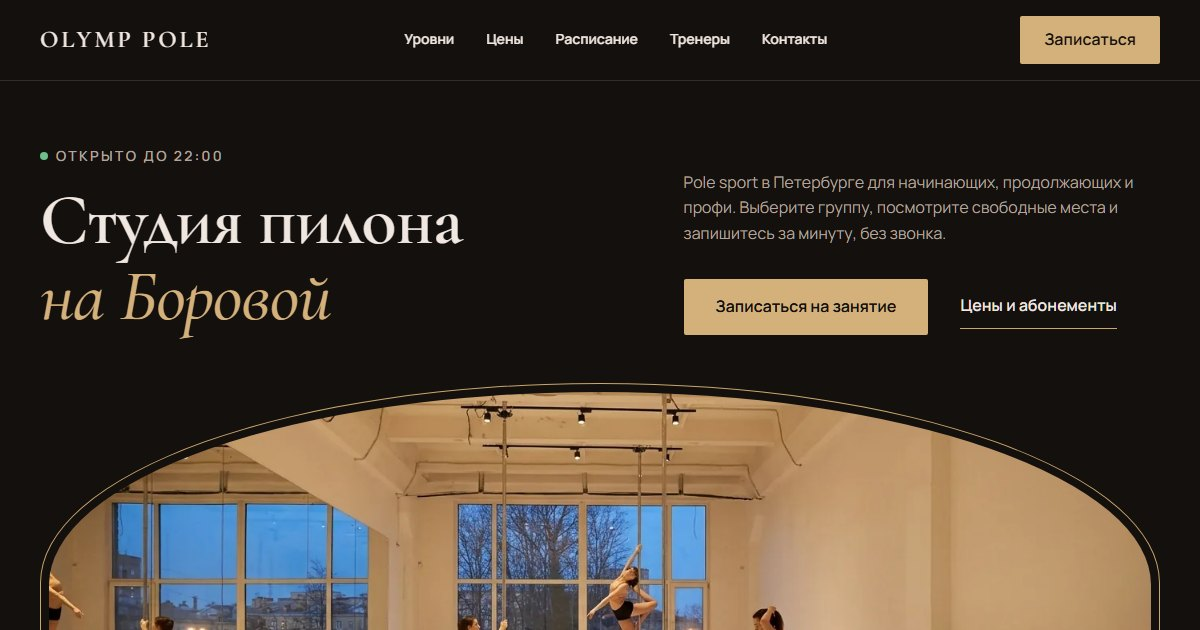
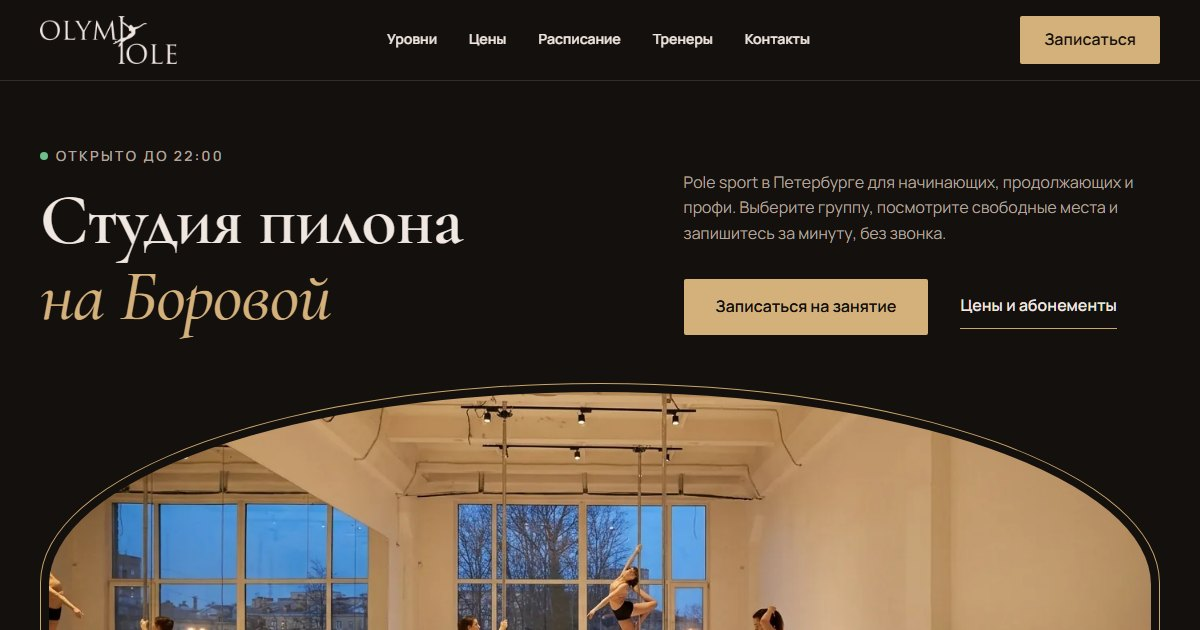
Правки Софии 27.11, вторая партия: логотип в шапке, аренда зала 1 000 ₽/час с заявкой, разовое 1,5 часа в ценах и форме, срок абонементов 30 дней и заморозка у абонемента на 8, «Очень важно» по видам занятий, пометка «только разово» в расписании, подсказка при пустом дне в фильтре уровня

Changed region(s): [[0.3083, 0.0302, 0.6783, 0.0905], [0.0308, 0.0302, 0.185, 0.1206]]

diff --git a/index.html b/index.html
@@ -36,7 +36,7 @@
 <body>
 
 <header class="shapka"><div class="wrap">
-  <a class="imya" href="#top">Olymp Pole</a>
+  <a class="imya" href="#top"><img src="img/logo.png" width="342" height="120" alt="Olymp Pole"></a>
   <nav aria-label="Разделы"><a href="#urovni">Уровни</a><a href="#ceny">Цены</a><a href="#raspisanie">Расписание</a><a href="#trenery">Тренеры</a><a href="#kontakty">Контакты</a></nav>
   <a class="btn btn--mal" href="#raspisanie">Записаться</a>
 </div></header>
@@ -89,23 +89,41 @@
 
 <section class="ceny" id="ceny"><div class="wrap">
   <div class="zag rv"><p class="kik">Цены</p><h2>Разово <em>или абонементом</em></h2>
-    <p class="pod">Выберите вариант, потом занятие в расписании. Оплата наличными или переводом, разовые и персональные занятия заранее, за 24 часа до начала.</p></div>
+    <p class="pod">Выберите вариант, потом занятие в расписании. Оплата наличными или переводом. Разовые и персональные занятия и аренду оплачивайте заранее, за 24 часа до начала.</p></div>
   <div class="tarify rv">
     <div class="tarif" data-t="razovoe"><h3>Разовое занятие</h3><p class="summa">1&nbsp;200&nbsp;₽</p><p>Групповое занятие, 1 час</p>
       <button type="button" class="tarif-kn" data-tarif="razovoe">Выбрать занятие <svg viewBox="0 0 24 24" fill="none" stroke="currentColor" stroke-width="2" stroke-linecap="round" stroke-linejoin="round" aria-hidden="true"><path d="M5 12h14"/><path d="m12 5 7 7-7 7"/></svg></button></div>
-    <div class="tarif" data-t="kupit4"><h3>Абонемент на 4 занятия</h3><p class="summa">4&nbsp;200&nbsp;₽</p><p>1&nbsp;050&nbsp;₽ за занятие</p>
+    <div class="tarif" data-t="kupit4"><h3>Абонемент на 4 занятия</h3><p class="summa">4&nbsp;200&nbsp;₽</p><p>1&nbsp;050&nbsp;₽ за занятие</p><p>Действует 30 дней, без заморозки</p>
       <button type="button" class="tarif-kn" data-tarif="kupit4">Выбрать абонемент <svg viewBox="0 0 24 24" fill="none" stroke="currentColor" stroke-width="2" stroke-linecap="round" stroke-linejoin="round" aria-hidden="true"><path d="M5 12h14"/><path d="m12 5 7 7-7 7"/></svg></button></div>
-    <div class="tarif glav" data-t="kupit8"><span class="metka">Выгоднее</span><h3>Абонемент на 8 занятий</h3><p class="summa">8&nbsp;000&nbsp;₽</p><p>1&nbsp;000&nbsp;₽ за занятие</p>
+    <div class="tarif glav" data-t="kupit8"><span class="metka">Выгоднее</span><h3>Абонемент на 8 занятий</h3><p class="summa">8&nbsp;000&nbsp;₽</p><p>1&nbsp;000&nbsp;₽ за занятие</p><p>Действует 30 дней, плюс заморозка на 1 неделю</p>
       <button type="button" class="tarif-kn" data-tarif="kupit8">Выбрать абонемент <svg viewBox="0 0 24 24" fill="none" stroke="currentColor" stroke-width="2" stroke-linecap="round" stroke-linejoin="round" aria-hidden="true"><path d="M5 12h14"/><path d="m12 5 7 7-7 7"/></svg></button></div>
+    <div class="tarif" data-t="razovoe15"><h3>Разовое занятие 1,5 часа</h3><p class="summa">1&nbsp;500&nbsp;₽</p><p>СФП + Pole sport, групповое занятие 1,5 часа. Оплачивается только разово</p>
+      <button type="button" class="tarif-kn" data-tarif="razovoe15">Выбрать занятие <svg viewBox="0 0 24 24" fill="none" stroke="currentColor" stroke-width="2" stroke-linecap="round" stroke-linejoin="round" aria-hidden="true"><path d="M5 12h14"/><path d="m12 5 7 7-7 7"/></svg></button></div>
     <div class="tarif tarif--perso"><h3>Персональное занятие</h3><p class="summa">от 3&nbsp;000&nbsp;₽</p><p>Один на один с тренером, время подбираем под вас</p>
       <button type="button" class="tarif-kn" data-okno="perso">Оставить заявку <svg viewBox="0 0 24 24" fill="none" stroke="currentColor" stroke-width="2" stroke-linecap="round" stroke-linejoin="round" aria-hidden="true"><path d="M5 12h14"/><path d="m12 5 7 7-7 7"/></svg></button></div>
+    <div class="tarif tarif--perso"><h3>Аренда зала</h3><p class="summa">1&nbsp;000&nbsp;₽ <small>за час</small></p><p>Три пилона pole 4 you (42 и 45 мм, высота 4 м), татами и креш-мат</p>
+      <button type="button" class="tarif-kn" data-okno="arenda">Оставить заявку <svg viewBox="0 0 24 24" fill="none" stroke="currentColor" stroke-width="2" stroke-linecap="round" stroke-linejoin="round" aria-hidden="true"><path d="M5 12h14"/><path d="m12 5 7 7-7 7"/></svg></button></div>
   </div>
   <div class="ceny-niz">
     <ul class="ceny-prim">
-      <li><b>Занятия 1,5 часа</b> (СФП + Pole sport) оплачиваются отдельно как разовое занятие: <b>1&nbsp;500&nbsp;₽</b>.</li>
-      <li>Абонемент действует <span class="zaglushka" id="srok">[срок уточняется]</span>, посещения отмечаются в электронном виде.</li>
+      <li><b>Занятия 1,5 часа</b> (СФП + Pole sport) оплачиваются только разово, <b>1&nbsp;500&nbsp;₽</b>, абонемент на них не действует.</li>
+      <li>Абонемент действует <b>30 дней</b>, это его максимальный срок. К абонементу на 8 занятий можно добавить заморозку на одну неделю, у абонемента на 4 занятия заморозки нет. Посещения отмечаются в электронном виде.</li>
     </ul>
     <button type="button" class="moj-abon" data-okno="abon"><svg viewBox="0 0 24 24" fill="none" stroke="currentColor" stroke-width="2" stroke-linecap="round" stroke-linejoin="round" aria-hidden="true"><path d="M2 9a3 3 0 0 1 0 6v2a2 2 0 0 0 2 2h16a2 2 0 0 0 2-2v-2a3 3 0 0 1 0-6V7a2 2 0 0 0-2-2H4a2 2 0 0 0-2 2Z"/><path d="M13 5v2"/><path d="M13 17v2"/><path d="M13 11v2"/></svg><span><b>Уже есть абонемент?</b> Посмотрите, сколько занятий осталось</span></button>
+  </div>
+  <div class="vazhno vazhno--ceny rv" role="note">
+    <p class="vazhno-zag"><svg viewBox="0 0 24 24" fill="none" stroke="currentColor" stroke-width="2" stroke-linecap="round" stroke-linejoin="round" aria-hidden="true"><circle cx="12" cy="12" r="10"/><path d="M12 8v4"/><path d="M12 16h.01"/></svg>Очень важно</p>
+    <div class="vazhno-setka">
+      <div><p class="vazhno-pod">Групповые занятия</p><ul>
+        <li>Выписаться с занятия нужно минимум за 6 часов до его начала. Если вы не отменили запись как минимум за 6 часов до начала, оплата сгорает.</li>
+        <li>Разовые занятия оплачиваются заранее, за 24 часа до начала.</li></ul></div>
+      <div><p class="vazhno-pod">Персональные занятия</p><ul>
+        <li>Оплата персонального занятия минимум за 24 часа до начала.</li>
+        <li>Отмена или перенос персонального занятия минимум за 24 часа до начала, иначе оплата сгорает.</li></ul></div>
+      <div><p class="vazhno-pod">Аренда зала</p><ul>
+        <li>Оплата аренды минимум за 24 часа.</li>
+        <li>Отмена аренды минимум за 24 часа. При отмене менее чем за 24 часа оплата сгорает.</li></ul></div>
+    </div>
   </div>
 </div></section>
 
@@ -147,7 +165,7 @@
         <p class="oshibka" id="o-tel" hidden>Проверьте номер: нужно 11 цифр, например +7 900 000-00-00</p>
         <fieldset class="oplata" id="oplata">
           <legend class="leg">Как оплатите</legend>
-          <label class="var"><input type="radio" name="oplata" value="razovoe" checked><span>Разовое занятие <small id="cena-raz">1&nbsp;200&nbsp;₽, оплата за 24 часа до занятия</small></span></label>
+          <label class="var"><input type="radio" name="oplata" value="razovoe" checked><span>Разовое занятие <small id="cena-raz">1 час 1&nbsp;200&nbsp;₽, 1,5 часа 1&nbsp;500&nbsp;₽, оплата за 24 часа до занятия</small></span></label>
           <label class="var"><input type="radio" name="oplata" value="abon"><span>У меня есть абонемент <small id="abon-prim">спишем одно занятие</small></span></label>
           <label class="var"><input type="radio" name="oplata" value="kupit4"><span>Куплю абонемент на 4 занятия <small>4&nbsp;200&nbsp;₽ в студии, это занятие первое</small></span></label>
           <label class="var"><input type="radio" name="oplata" value="kupit8"><span>Куплю абонемент на 8 занятий <small>8&nbsp;000&nbsp;₽ в студии, это занятие первое</small></span></label>
@@ -157,8 +175,7 @@
           <p class="vazhno-zag"><svg viewBox="0 0 24 24" fill="none" stroke="currentColor" stroke-width="2" stroke-linecap="round" stroke-linejoin="round" aria-hidden="true"><circle cx="12" cy="12" r="10"/><path d="M12 8v4"/><path d="M12 16h.01"/></svg>Очень важно</p>
           <ul>
             <li>Выписаться с занятия нужно минимум за 6 часов до его начала. Если вы не отменили запись как минимум за 6 часов до начала, оплата сгорает.</li>
-            <li>Оплата персональных и разовых занятий производится заранее, за 24 часа до начала занятия.</li>
-            <li>Отмена персонального занятия возможна за 24 часа до начала. При отмене менее чем за 24 часа оплата сгорает.</li>
+            <li>Разовые занятия оплачиваются заранее, за 24 часа до начала.</li>
           </ul>
         </div>
         <button class="btn btn--shir knopka-otpr" type="submit" id="go">Записаться</button>
@@ -256,7 +273,7 @@ Olymp Pole, Боровая ул., 116, 3 этаж, офис 312.
     <div class="zag"><p class="kik">Вопросы</p><h2>Перед <em>первым разом</em></h2></div>
     <details><summary>Никогда не занимались. Можно?<svg viewBox="0 0 24 24" fill="none" stroke="currentColor" stroke-width="2" stroke-linecap="round" stroke-linejoin="round" aria-hidden="true"><path d="m6 9 6 6 6-6"/></svg></summary><p>Да. Уровень «Начинающие» подходит тем, кто никогда не занимался спортом или занимался немного, специальная подготовка не нужна. Группы для начинающих<span id="faq-nach"></span>.</p></details>
     <details><summary>Сколько человек в группе?<svg viewBox="0 0 24 24" fill="none" stroke="currentColor" stroke-width="2" stroke-linecap="round" stroke-linejoin="round" aria-hidden="true"><path d="m6 9 6 6 6-6"/></svg></summary><p>В зале 3 пилона. В группе не больше 6 человек (по двое на пилон, по предварительной договорённости с учениками). Сколько мест осталось, видно в расписании.</p></details>
-    <details><summary>Как оплатить?<svg viewBox="0 0 24 24" fill="none" stroke="currentColor" stroke-width="2" stroke-linecap="round" stroke-linejoin="round" aria-hidden="true"><path d="m6 9 6 6 6-6"/></svg></summary><p>Наличными или переводом. Разовые и персональные занятия оплачиваются заранее, за 24 часа до начала. Абонемент можно купить на занятии.</p></details>
+    <details><summary>Как оплатить?<svg viewBox="0 0 24 24" fill="none" stroke="currentColor" stroke-width="2" stroke-linecap="round" stroke-linejoin="round" aria-hidden="true"><path d="m6 9 6 6 6-6"/></svg></summary><p>Наличными или переводом. Разовые и персональные занятия и аренда оплачиваются заранее, за 24 часа до начала. Абонемент можно купить на занятии.</p></details>
     <details><summary>Не получается прийти. Что делать?<svg viewBox="0 0 24 24" fill="none" stroke="currentColor" stroke-width="2" stroke-linecap="round" stroke-linejoin="round" aria-hidden="true"><path d="m6 9 6 6 6-6"/></svg></summary><p>Отмените запись минимум за 6 часов до начала занятия, иначе оплата сгорает. Если включили напоминания, нажмите «Не смогу» в боте. Или напишите студии во ВКонтакте или Telegram. Место освободится для другого человека.</p></details>
     <details><summary>Как найти студию?<svg viewBox="0 0 24 24" fill="none" stroke="currentColor" stroke-width="2" stroke-linecap="round" stroke-linejoin="round" aria-hidden="true"><path d="m6 9 6 6 6-6"/></svg></summary><p>Боровая улица, 116, третий этаж, офис 312. Карта ниже.</p></details>
   </div>
@@ -305,14 +322,17 @@ Olymp Pole, Боровая ул., 116, 3 этаж, офис 312.
   <div class="okno-v" role="dialog" aria-modal="true" aria-labelledby="okno-zag">
     <div class="okno-shapka"><h3 id="okno-zag"></h3><button type="button" class="okno-x" id="okno-x" aria-label="Закрыть"><svg viewBox="0 0 24 24" fill="none" stroke="currentColor" stroke-width="2" stroke-linecap="round" stroke-linejoin="round" aria-hidden="true"><path d="M18 6 6 18"/><path d="m6 6 12 12"/></svg></button></div>
     <div id="o-perso" hidden>
-      <p class="okno-pod">От 3&nbsp;000&nbsp;₽. Оставьте телефон: студия свяжется и предложит удобное время.</p>
-      <p class="okno-pod">Оплата заранее, за 24 часа до занятия. Отмена возможна за 24 часа до начала, при отмене менее чем за 24 часа оплата сгорает.</p>
+      <p class="okno-pod" data-dlya="perso">От 3&nbsp;000&nbsp;₽. Оставьте телефон: студия свяжется и предложит удобное время.</p>
+      <p class="okno-pod" data-dlya="perso">Оплата персонального занятия минимум за 24 часа до начала. Отмена или перенос персонального занятия минимум за 24 часа до начала, иначе оплата сгорает.</p>
+      <p class="okno-pod" data-dlya="arenda" hidden>1&nbsp;000&nbsp;₽ за час. Оставьте телефон: студия свяжется и предложит свободное время.</p>
+      <p class="okno-pod" data-dlya="arenda" hidden>Зал оборудован тремя пилонами от компании pole 4 you. Два пилона диаметром 42 мм и один 45 мм. В зале имеются татами и креш-мат. Высота пилонов 4 м. Покрытие пола: ламинат.</p>
+      <p class="okno-pod" data-dlya="arenda" hidden>Оплата аренды минимум за 24 часа. Отмена аренды минимум за 24 часа, при отмене менее чем за 24 часа оплата сгорает.</p>
       <form id="perso-forma" novalidate>
         <label for="p-imya">Имя</label><input id="p-imya" autocomplete="given-name" maxlength="60" aria-describedby="o-p-imya">
         <p class="oshibka" id="o-p-imya" hidden>Напишите имя</p>
         <label for="p-tel">Телефон</label><input id="p-tel" type="tel" inputmode="tel" autocomplete="tel" placeholder="+7 900 000-00-00" aria-describedby="o-p-tel">
         <p class="oshibka" id="o-p-tel" hidden>Проверьте номер: нужно 11 цифр</p>
-        <label for="p-msg">Когда удобно и что хотите (необязательно)</label><textarea id="p-msg" maxlength="500" placeholder="Например: будни после 19:00, хочу освоить флаг"></textarea>
+        <label for="p-msg"><span data-dlya="perso">Когда удобно и что хотите</span><span data-dlya="arenda" hidden>Когда и на сколько часов</span> (необязательно)</label><textarea id="p-msg" maxlength="500" placeholder="Например: будни после 19:00, хочу освоить флаг"></textarea>
         <div class="lovushka" aria-hidden="true"><input id="p-site" tabindex="-1" autocomplete="off"></div>
         <button class="btn btn--shir knopka-otpr" type="submit">Отправить заявку</button>
         <p class="oshibka" id="o-p-otpr" hidden></p>

diff --git a/app.js b/app.js
@@ -29,10 +29,12 @@
   };
   var TARIFY = {
     razovoe: { imya: 'Разовое занятие', kratko: 'разовое занятие, 1 200 ₽, оплата за 24 часа до занятия' },
+    razovoe15: { imya: 'Разовое занятие 1,5 часа', kratko: 'разовое занятие 1,5 часа, 1 500 ₽, оплата за 24 часа до занятия' },
     kupit4: { imya: 'Абонемент на 4 занятия', kratko: 'абонемент на 4 занятия, 4 200 ₽ в студии' },
     kupit8: { imya: 'Абонемент на 8 занятий', kratko: 'абонемент на 8 занятий, 8 000 ₽ в студии' }
   };
 
+  function dlit(m) { return m === 60 ? '1 час' : m === 90 ? '1,5 часа' : m === 120 ? '2 часа' : m + ' мин'; }
   function levelText(l) { return l ? l.split(',').map(function (x) { return LV[x] || x; }).join(' и ') : 'все уровни'; }
   function d(iso) { return new Date(iso + 'T00:00:00Z'); }
   function dataLong(iso) { var x = d(iso); return DN[x.getUTCDay()] + ', ' + x.getUTCDate() + ' ' + MES[x.getUTCMonth()]; }
@@ -110,8 +112,10 @@
     var gg = naDen(dni[den]).filter(podhodit);
     var el = $('#zanyatiya');
     if (!gg.length) {
-      el.innerHTML = '<li class="pustoj">' + (den === 0 ? 'На сегодня подходящих групп больше нет.' : 'В этот день подходящих групп нет.') +
-        ' <button type="button" class="ssylka" data-blizh>Показать ближайшее занятие</button></li>';
+      var drugie = lv ? naDen(dni[den]).filter(function (x) { return !x.cancelled; }) : [];
+      el.innerHTML = '<li class="pustoj">' + (drugie.length
+        ? 'Для уровня «' + URS[lv].imya + '» в этот день групп нет. Есть для других уровней: ' + drugie.map(function (x) { return vremya(x.time) + ' ' + esc(x.title) + ' (' + levelText(x.level) + ')'; }).join(', ') + '. <button type="button" class="ssylka" data-lv-set="">Показать все уровни</button>'
+        : (den === 0 ? 'На сегодня подходящих групп больше нет.' : 'В этот день подходящих групп нет.') + ' <button type="button" class="ssylka" data-blizh>Показать ближайшее занятие</button>') + '</li>';
       return;
     }
     el.innerHTML = gg.map(function (g) {
@@ -120,7 +124,7 @@
       return '<li class="zn' + (g.cancelled ? ' otm' : g.free ? '' : ' polno') + (moya ? ' vybrano' : '') + '">' +
         '<div class="zn-vr"><time>' + vremya(g.time) + '</time><small>до ' + vremya(g.end) + '</small></div>' +
         '<div class="zn-o"><b>' + esc(g.title) + '</b><span class="zn-meta"><span class="ur">' + levelText(g.level) + '</span>' +
-        (g.trainer ? '<span>' + esc(g.trainer) + '</span>' : '') + (g.price !== 1200 ? '<span>' + rub(g.price) + '</span>' : '') + '</span></div>' +
+        (g.trainer ? '<span>' + esc(g.trainer) + '</span>' : '') + (g.price !== 1200 ? '<span>' + rub(g.price) + '</span>' : '') + (g.abon ? '' : '<span class="razovo">' + dlit(g.dur) + ', только разово</span>') + '</span></div>' +
         '<div class="zn-d">' + mestaTekst(g) + knopka + '</div></li>';
     }).join('');
   }
@@ -168,11 +172,11 @@
     var el = $('#vybor-tarif');
     if (!tarif) { el.hidden = true; return; }
     el.hidden = false;
-    el.innerHTML = '<span><b>' + TARIFY[tarif].imya + '.</b> ' + (tarif === 'razovoe' ? 'Выберите занятие ниже.' : 'Выберите первое занятие ниже, абонемент оформят в студии.') + '</span>' +
+    el.innerHTML = '<span><b>' + TARIFY[tarif].imya + '.</b> ' + (tarif === 'razovoe' ? 'Выберите занятие ниже.' : tarif === 'razovoe15' ? 'Выберите занятие 1,5 часа ниже (СФП + Pole sport).' : 'Выберите первое занятие ниже, абонемент оформят в студии.') + '</span>' +
       '<button type="button" class="ssylka" data-tarif-sbros>Изменить</button>';
   }
   function postavitOplatu() {
-    var r = document.querySelector('input[name=oplata][value=' + (tarif || 'razovoe') + ']');
+    var r = document.querySelector('input[name=oplata][value=' + (!tarif || tarif === 'razovoe15' ? 'razovoe' : tarif) + ']');
     if (r && !r.disabled) r.checked = true;
   }
 
@@ -184,7 +188,7 @@
     $('#vybrano').innerHTML = '<b>' + dataLong(g.date) + ', ' + vremya(g.time) + '–' + vremya(g.end) + '</b><span>' + esc(g.title) + ' · ' + levelText(g.level) +
       (g.trainer ? ' · ' + esc(g.trainer) : '') + ' · ' + (g.free ? 'свободно ' + g.free + ' ' + mest(g.free) : 'мест нет, лист ожидания') + '</span>';
     $('#go').textContent = g.free ? 'Записаться' : 'Встать в лист ожидания';
-    $('#cena-raz').textContent = rub(g.price) + ', оплата за 24 часа до занятия';
+    $('#cena-raz').textContent = rub(g.price) + ' за ' + dlit(g.dur) + ', оплата за 24 часа до занятия';
     var bezAbon = !g.abon;
     $$('input[name=oplata]').forEach(function (r) { if (r.value !== 'razovoe') r.disabled = bezAbon; });
     if (bezAbon) document.querySelector('input[name=oplata][value=razovoe]').checked = true;
@@ -276,13 +280,20 @@
   $('#snova').addEventListener('click', function () { pokazatFormu(); vybor = null; $('#vybrano').innerHTML = '<b>Занятие не выбрано</b><span>Выберите его в расписании выше</span>'; k($('#raspisanie')); });
 
   // ---------- окно: персональное занятие или «мой абонемент» ----------
-  var okno = $('#okno'), oknoOtkuda = null;
+  var okno = $('#okno'), oknoOtkuda = null, zayavka = 'perso';
   function otkrytOkno(chto) {
     oknoOtkuda = document.activeElement;
-    $('#okno-zag').textContent = chto === 'perso' ? 'Персональное занятие' : 'Мой абонемент';
-    $('#o-perso').hidden = chto !== 'perso'; $('#o-abon').hidden = chto !== 'abon';
+    var forma = chto === 'perso' || chto === 'arenda';
+    if (forma) {
+      zayavka = chto;
+      $$('#o-perso [data-dlya]').forEach(function (e) { e.hidden = e.dataset.dlya !== chto; });
+      $('#p-msg').placeholder = chto === 'arenda' ? 'Например: суббота 14:00–16:00' : 'Например: будни после 19:00, хочу освоить флаг';
+      $('#perso-forma').hidden = false; $('#perso-gotovo').hidden = true; soobshenie('#o-p-otpr', '');
+    }
+    $('#okno-zag').textContent = chto === 'perso' ? 'Персональное занятие' : chto === 'arenda' ? 'Аренда зала' : 'Мой абонемент';
+    $('#o-perso').hidden = !forma; $('#o-abon').hidden = chto !== 'abon';
     okno.hidden = false; document.body.classList.add('okno-otkryto');
-    setTimeout(function () { var f = okno.querySelector('#o-' + chto + ' input:not([tabindex])'); if (f) f.focus(); }, 50);
+    setTimeout(function () { var f = okno.querySelector('#o-' + (forma ? 'perso' : chto) + ' input:not([tabindex])'); if (f) f.focus(); }, 50);
   }
   function zakrytOkno() { okno.hidden = true; document.body.classList.remove('okno-otkryto'); if (oknoOtkuda) oknoOtkuda.focus(); }
   $('#okno-x').addEventListener('click', zakrytOkno);
@@ -296,7 +307,7 @@
     oshibka(im, '#o-p-imya', !a); oshibka(tl, '#o-p-tel', !b);
     if (!a) { im.focus(); return; } if (!b) { tl.focus(); return; }
     soobshenie('#o-p-otpr', '');
-    fetch(API + '/perso', { method: 'POST', headers: { 'Content-Type': 'application/json' }, body: JSON.stringify({ name: im.value.trim(), phone: tl.value.trim(), msg: $('#p-msg').value.trim(), site: $('#p-site').value }) })
+    fetch(API + '/perso', { method: 'POST', headers: { 'Content-Type': 'application/json' }, body: JSON.stringify({ name: im.value.trim(), phone: tl.value.trim(), msg: $('#p-msg').value.trim(), tip: zayavka, site: $('#p-site').value }) })
       .then(function (r) { if (!r.ok) throw r.status; $('#perso-forma').hidden = true; $('#perso-gotovo').hidden = false; })
       .catch(function (s) { soobshenie('#o-p-otpr', s === 429 ? 'Заявка уже отправлена, студия свяжется с вами.' : 'Не получилось отправить. Напишите студии во ВКонтакте.'); });
   });
@@ -315,7 +326,7 @@
         for (var i = 0; i < a.total; i++) tochki += '<i' + (i < a.used ? ' class="z"' : '') + '></i>';
         var istek = a.until && a.until < (D ? D.today : '');
         itog.innerHTML = '<b>' + esc(a.name) + ', абонемент №' + a.nomer + '</b><div class="tochki" aria-label="Отмечено ' + a.used + ' из ' + a.total + '">' + tochki + '</div>' +
-          '<p>Осталось ' + a.left + ' из ' + a.total + (a.until ? ' · ' + (istek ? 'срок закончился ' : 'действует до ') + dataKor(a.until) : '') + (a.closed ? ' · закрыт' : '') + '</p>' +
+          '<p>Осталось ' + a.left + ' из ' + a.total + (a.until ? ' · ' + (istek ? 'срок закончился ' : 'действует до ') + dataKor(a.until) : '') + (a.zamorozka ? ' · с заморозкой на неделю' : '') + (a.closed ? ' · закрыт' : '') + '</p>' +
           (a.dates.length ? '<p>Отмечены: ' + a.dates.map(dataKor).join(', ') + '</p>' : '<p>Посещений пока нет.</p>');
         itog.hidden = false;
       })

diff --git a/kabinet/kabinet.js b/kabinet/kabinet.js
@@ -224,7 +224,11 @@
       var a = j.abon;
       okno('Абонемент №' + a.id, '<p><b>' + esc(a.name) + '</b>' + (a.phone ? ' · <a href="' + telHref(a.phone) + '">' + tel(a.phone) + '</a>' : '') + '</p>' +
         '<p class="prim">Осталось ' + a.left + ' из ' + a.total + ' · куплен ' + dkor(a.bought) + ' · ' + (a.until ? 'до ' + dkor(a.until) : 'без срока') + (a.closed ? ' · закрыт' : '') + '</p>' +
-        (a.note ? '<p class="prim">' + esc(a.note) + '</p>' : '') + '<div style="margin:16px 0">' + tochki(a.total, a.used, true) + '</div>' +
+        (a.note ? '<p class="prim">' + esc(a.note) + '</p>' : '') +
+        (a.total === 8 && a.until ? (a.zamorozka
+          ? '<p class="prim">Заморозка с ' + dkor(a.zamorozka) + ': срок продлён на 7 дней. <button type="button" class="ssylka" id="e-zam-otm">Отменить заморозку</button></p>'
+          : '<p><button type="button" class="btn btn--kontur" id="e-zam7">Заморозить на 7 дней</button></p>') : '') +
+        '<div style="margin:16px 0">' + tochki(a.total, a.used, true) + '</div>' +
         '<form id="f-otm" class="dva"><input id="o-data" type="date" value="' + TODAY + '" aria-label="Дата посещения"><button class="btn" type="submit"' + (a.left ? '' : ' disabled') + '>Отметить занятие</button></form>' +
         '<ul class="otmetki" style="margin-top:16px">' + (j.marks.length ? j.marks.map(function (o) {
           return '<li><span>' + dlong(o.date) + (o.title ? ', ' + o.time.replace(/^0/, '') + ' ' + esc(o.title) : '') + '</span><button type="button" class="ssylka" data-otm-del="' + o.id + '">убрать</button></li>';
@@ -249,6 +253,17 @@
         ev.preventDefault();
         api('abon_edit', { id: a.id, name: $('#e-imya').value.trim(), phone: $('#e-tel').value.trim(), total: +$('#e-n').value, until: $('#e-do').value, note: $('#e-zam').value.trim() })
           .then(function () { tost('Сохранено'); abonKarta(a.id); risAbon(); }).catch(function () {});
+      });
+      var z7 = $('#e-zam7'), zo = $('#e-zam-otm');
+      if (z7) z7.addEventListener('click', function () {
+        sprosit('Заморозить абонемент на 7 дней? Срок продлится до ' + dkor(addDays(a.until, 7)) + '. Заморозка бывает один раз.').then(function (y) {
+          if (y) api('abon_freeze', { id: a.id }).then(function (r) { tost('Заморожен, действует до ' + dkor(r.until)); abonKarta(a.id); risAbon(); }).catch(function () {});
+        });
+      });
+      if (zo) zo.addEventListener('click', function () {
+        sprosit('Отменить заморозку? Срок вернётся на 7 дней назад.').then(function (y) {
+          if (y) api('abon_freeze', { id: a.id, otmena: true }).then(function () { tost('Заморозка отменена'); abonKarta(a.id); risAbon(); }).catch(function () {});
+        });
       });
       $('#e-zakr').addEventListener('click', function () {
         api('abon_edit', { id: a.id, closed: !a.closed }).then(function () { abonKarta(a.id); risAbon(); }).catch(function () {});

diff --git a/style.css b/style.css
@@ -456,3 +456,15 @@ body.okno-otkryto{overflow:hidden}
 .vazhno ul{display:grid;gap:8px}
 .vazhno li{position:relative;padding-left:16px;font-size:var(--fs);line-height:1.55}
 .vazhno li::before{content:'';position:absolute;left:0;top:.65em;width:6px;height:6px;border-radius:50%;background:var(--gold)}
+
+/* 27.11, правки Софии (вторая партия): логотип в шапке, 6 карточек цен по 3 в ряд, «Очень важно» по видам занятий */
+.imya{display:block;line-height:0}
+.imya img{height:40px;width:auto}
+.vazhno--ceny{margin-top:32px;padding:24px}
+.vazhno-setka{display:grid;gap:16px}
+.vazhno-pod{font-size:var(--fs);font-weight:600;color:var(--ink);margin-bottom:8px}
+@media (min-width:768px){
+  .imya img{height:48px}
+  .vazhno-setka{grid-template-columns:repeat(3,1fr);gap:24px}
+}
+@media (min-width:1000px){.tarify{grid-template-columns:repeat(3,1fr)}}
